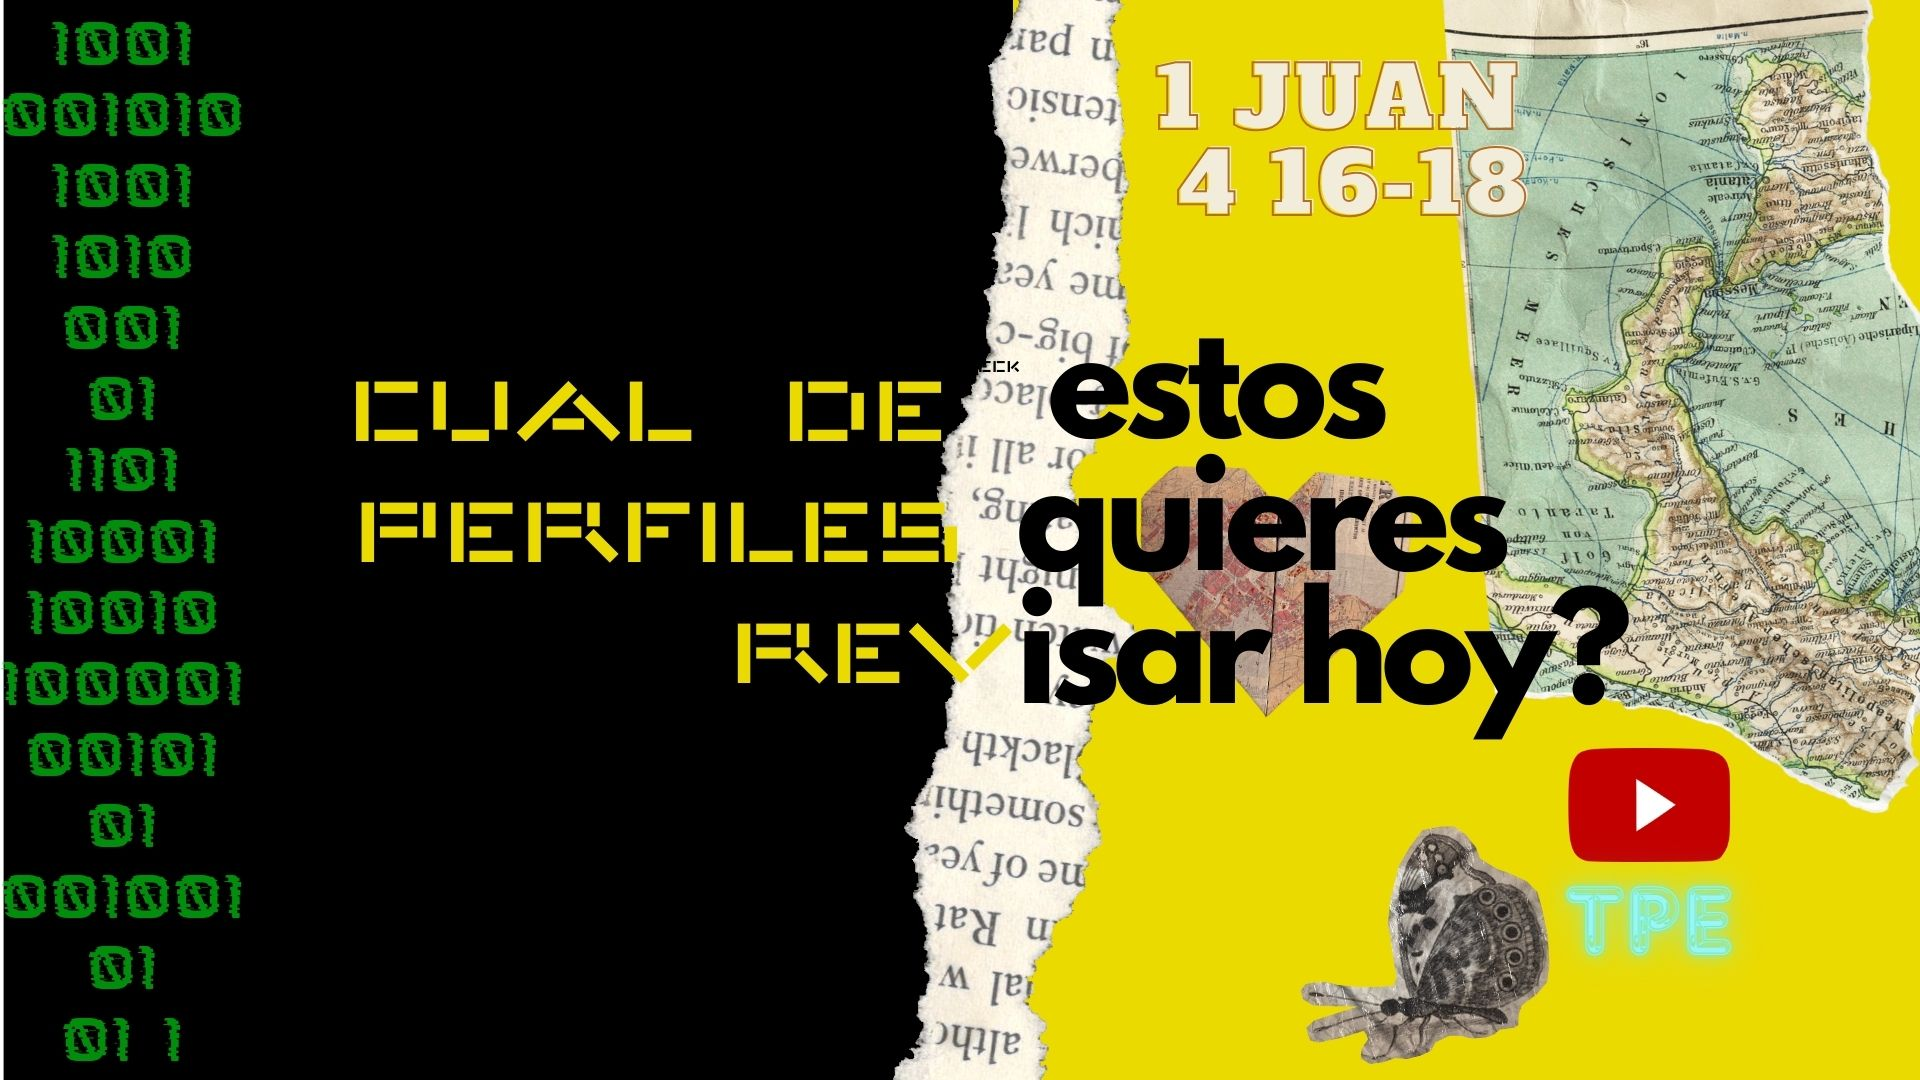
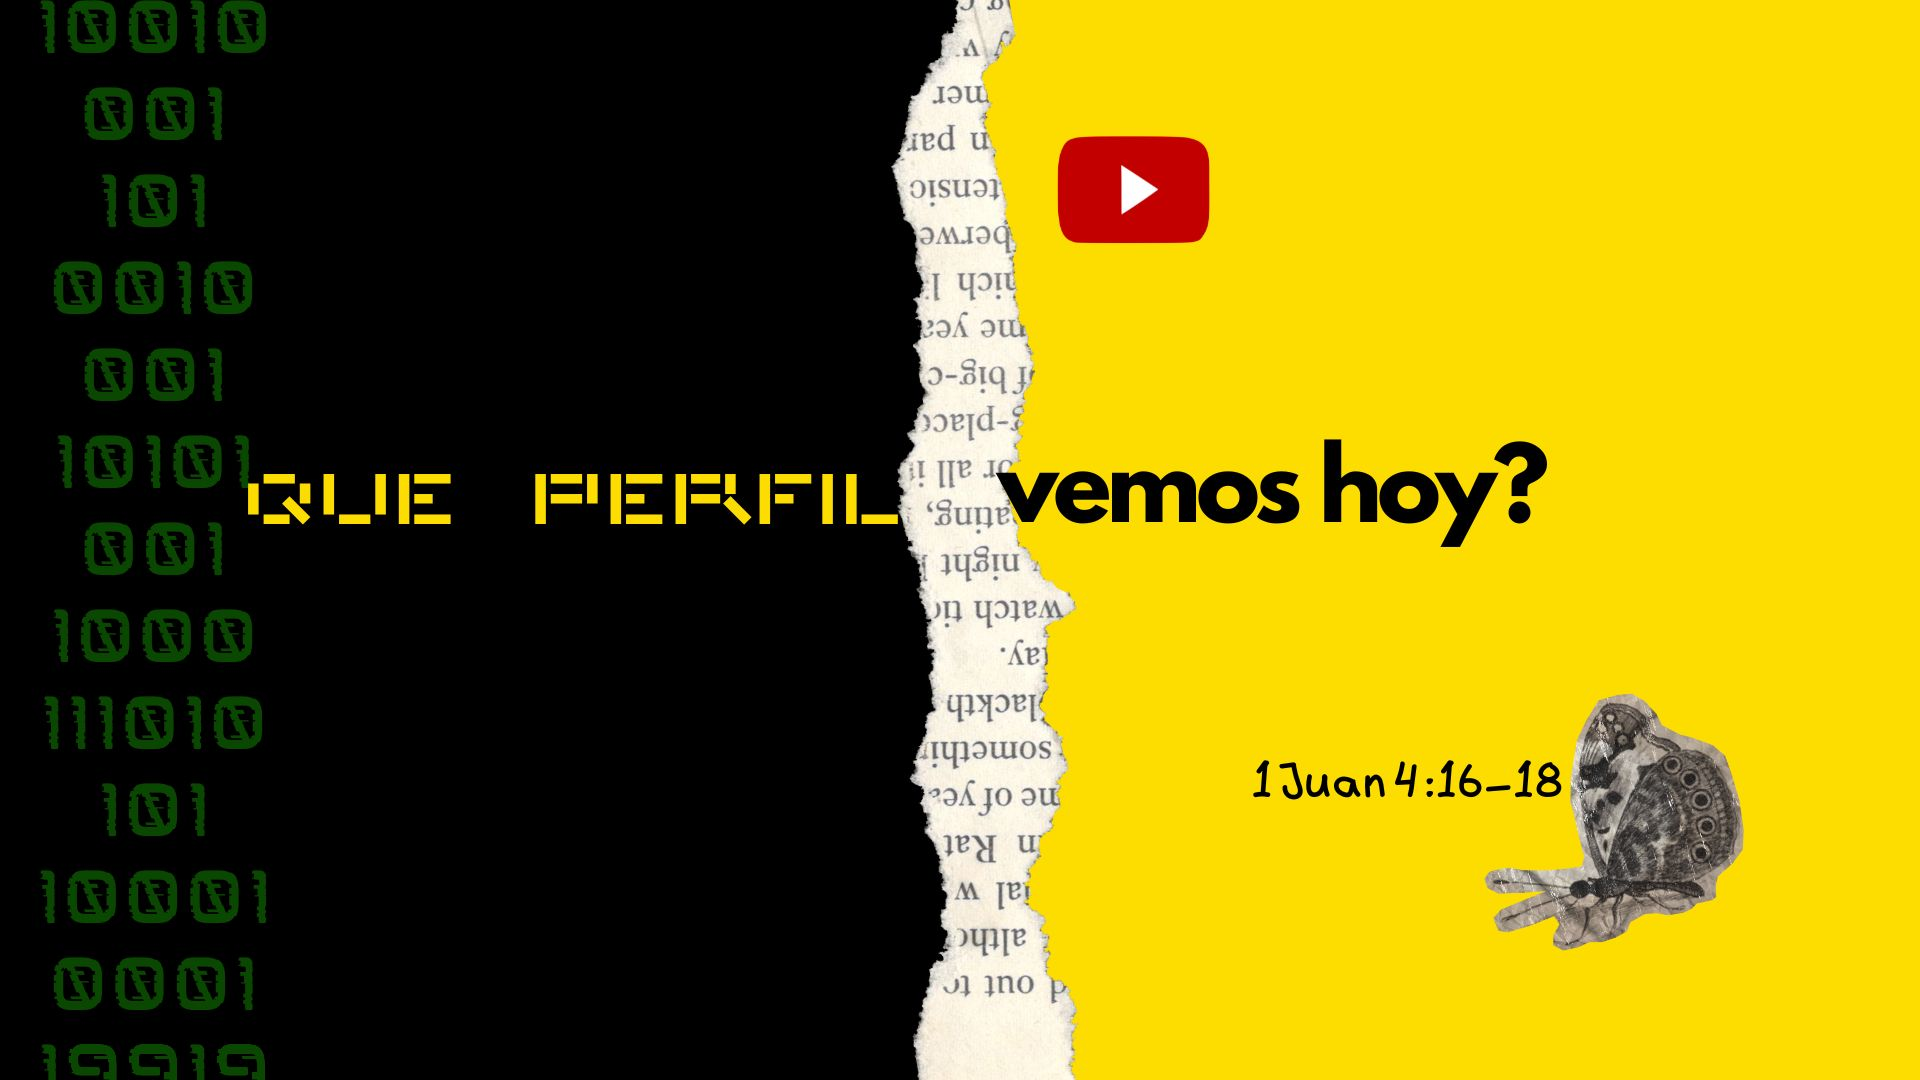
cambios en la primera pagina y tambien agregado una funcion para cambio de pagina

diff --git a/src/components/firstPage/firstPage.js b/src/components/firstPage/firstPage.js
@@ -1,13 +1,25 @@
 import './firstPage.css';
+import React, { useState } from 'react';
 import background from './index_image.jpg';
-import background_responsive from './index_image_responsive.jpg'
+import background_responsive from './index_image_responsive.jpg';
 
-function FirstPage (){
-    return(
-        <div className='firstPage_container'>
-        <div className='firstPageBkg' style={{ backgroundImage: `url(${background})` }}>  </div>
-        <div className='firstPageBkg_responsive' style={{ backgroundImage: `url(${background_responsive})` }}>  </div>
-        </div>
-    )
+function FirstPage({ setOpcionSeleccionada }) {
+  const handleClick = (opcion) => {
+    setOpcionSeleccionada(opcion);
+  };
+
+  return (
+    <div className='firstPage_container'>
+      <div className='firstPageBkg' style={{ backgroundImage: `url(${background})` }}>
+        <div className='firstPageOpcion' onClick={() => handleClick('opcionUno')}></div>
+        <div className='firstPageOpcion' onClick={() => handleClick('opcionDos')}></div>
+      </div>
+      <div className='firstPageBkg_responsive' style={{ backgroundImage: `url(${background_responsive})` }}>
+        <div className='firstPageOpcion' onClick={() => handleClick('opcionUno')}></div>
+        <div className='firstPageOpcion' onClick={() => handleClick('opcionDos')}></div>
+      </div>
+    </div>
+  );
 }
+
 export default FirstPage;

diff --git a/src/components/firstPage/firstPage.css b/src/components/firstPage/firstPage.css
@@ -2,16 +2,25 @@
     color:red;
     width: 100%;
     height: 100%;
+    
 }
 
 .firstPageBkg{
     width: 100%;
     height: 100vh;
+    display:flex ;
     background-size: cover;
 }
 
 .firstPageBkg_responsive{
     display: none;
+}
+
+.firstPageOpcion{
+    position: relative;
+    width: 48%;
+    height: 100vh;
+    margin: 0 1%;
 }
 
 @media (max-width: 768px) {
@@ -21,10 +30,13 @@
     }
 
     .firstPageBkg_responsive{
+        
         width: 100%;
         height: 100vh;
         background-size: cover;
-        display: flex;
+       background-position: center;
+       display:flex ;
+        background-repeat: no-repeat;
 
     }
 

diff --git a/src/App.js b/src/App.js
@@ -8,7 +8,10 @@ function App() {
   const [opcionSeleccionada, setOpcionSeleccionada] = useState(null);
 
   const mostrarPagina = () => {
-    if (opcionSeleccionada === 'opcionUno') {
+    if (opcionSeleccionada === null){
+      return <FirstPage setOpcionSeleccionada={setOpcionSeleccionada} />;
+    }
+    else if (opcionSeleccionada === 'opcionUno') {
       return <PaginaUno />;
     } else if (opcionSeleccionada === 'opcionDos') {
       return <PaginaDos />;
@@ -27,7 +30,7 @@ function App() {
       </header>
       {mostrarPagina()}
        
-    <FirstPage/>
+   
     </div>
   );
 }
